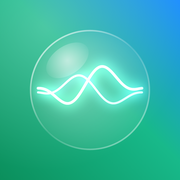
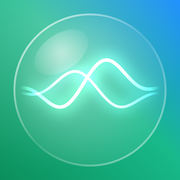
Полоса записи без точки; волны кнопок с плавными концами; иконка: шар крупнее, концы волн растворяются
Claude-Session: https://claude.ai/code/session_01WMZJrX2arWwd9szUey9CzY

Changed region(s): [[0.0556, 0.0556, 0.9444, 0.9444], [0.75, 0.1667, 0.8333, 0.25], [0.1667, 0.75, 0.25, 0.8333]]

diff --git a/src/web/app.js b/src/web/app.js
@@ -3312,11 +3312,13 @@ function silkLines(c, T, d, active) {
       const y = H / 2 + amp * k * env * Math.sin(u * Math.PI * 2 * 1.15 + T * sp * (j ? 1.25 : 1) + off)
       px === pad ? x.moveTo(px, y) : x.lineTo(px, y)
     }
-    x.strokeStyle = col; x.lineWidth = 1.8 * d; x.lineCap = "round"; x.lineJoin = "round"; x.stroke()
+    const g = x.createLinearGradient(pad, 0, W - pad, 0), c0 = col.replace(/[\d.]+\)$/, "0)")
+    g.addColorStop(0, c0); g.addColorStop(.25, col); g.addColorStop(.75, col); g.addColorStop(1, c0)   // концы растворяются
+    x.strokeStyle = g; x.lineWidth = 1.8 * d; x.lineCap = "round"; x.lineJoin = "round"; x.stroke()
   })
 }
 // Полоса записи: две волны плывут медленно, как на кнопке; пока говорите — чуть шире размах, но не быстрее.
-// Яркая точка стоит в центре и только мягко дышит. Всё свечение помещается внутри полосы
+// Без точки: только волны, концы растворяются. Всё свечение помещается внутри полосы
 function silkComet(c, T, d) {
   const x = c.getContext("2d"), W = c.width, H = c.height, a = SILK.lv
   x.clearRect(0, 0, W, H)
@@ -3331,11 +3333,6 @@ function silkComet(c, T, d) {
     x.strokeStyle = g; x.lineWidth = (j ? 1.6 : 2) * d; x.lineCap = "round"; x.lineJoin = "round"
     x.shadowColor = "#bff"; x.shadowBlur = glow; x.stroke(); x.shadowBlur = 0
   })
-  const hy = H / 2, R = (3.2 + a * 1.2) * (1 + .08 * Math.sin(T * 1.6)) * d, rr = Math.min(R * 2.4, H / 2 - d)
-  const gl = x.createRadialGradient(mid, hy, 0, mid, hy, rr)
-  gl.addColorStop(0, "#fff"); gl.addColorStop(.3, "rgba(200,255,240,.9)"); gl.addColorStop(.65, "rgba(90,220,255,.3)"); gl.addColorStop(1, "rgba(90,220,255,0)")
-  x.fillStyle = gl; x.beginPath(); x.arc(mid, hy, rr, 0, 7); x.fill()
-  x.fillStyle = "#fff"; x.beginPath(); x.arc(mid, hy, R * .5, 0, 7); x.fill()
 }
 let silkHide = null
 function silkShow(text) {

diff --git a/src/web/tools/icon_orb.html b/src/web/tools/icon_orb.html
@@ -51,5 +51,13 @@ Object.assign(V,{
    orbGlass(cx,cy,R) }
 })
 
+
+function waveF(cx,cy,len,amp,rgb,a,ph,lw,glow,k=2.3){ const g=x.createLinearGradient(cx-len/2,0,cx+len/2,0); g.addColorStop(0,`rgba(${rgb},0)`); g.addColorStop(.28,`rgba(${rgb},${a})`); g.addColorStop(.72,`rgba(${rgb},${a})`); g.addColorStop(1,`rgba(${rgb},0)`)
+ x.beginPath(); for(let i=0;i<=200;i++){const u=i/200,env=Math.pow(Math.sin(Math.PI*u),1.5),px=cx-len/2+u*len,py=cy+amp*env*Math.sin(u*Math.PI*k+ph); i?x.lineTo(px,py):x.moveTo(px,py)}
+ x.lineCap="round";x.lineJoin="round";x.strokeStyle=g;x.lineWidth=lw;x.shadowColor=`rgba(${rgb},1)`;x.shadowBlur=glow;x.stroke();x.shadowBlur=0 }
+V.a2=function(){ bg(); const cx=W/2,cy=W/2,R=W*.42; orbShell(cx,cy,R)
+ inside(cx,cy,R,()=>{ waveF(cx,cy+R*.04,R*1.85,R*.32,"140,205,255",.95,2.1,R*.035,R*.18); waveF(cx,cy-R*.03,R*1.85,R*.42,"150,255,220",1,0,R*.045,R*.22) })
+ orbGlass(cx,cy,R) }
+
 window.draw=k=>{x.clearRect(0,0,W,W);V[k]()}
 </script>

diff --git a/src/web/index.html b/src/web/index.html
@@ -11,8 +11,8 @@
 <meta name="referrer" content="no-referrer">
 <title>IZIDAY</title>
 <link rel="manifest" href="manifest.webmanifest">
-<link rel="apple-touch-icon" href="icon-180.png?v=3">
-<link rel="icon" href="icon-192.png?v=3">
+<link rel="apple-touch-icon" href="icon-180.png?v=4">
+<link rel="icon" href="icon-192.png?v=4">
 <link rel="stylesheet" href="style.css">
 </head>
 <body>

diff --git a/src/web/tools/icons.py b/src/web/tools/icons.py
@@ -1,6 +1,6 @@
 #!/usr/bin/env python3
-"""Значки веб-приложения: шар Изи на зелёном (вариант А, 2026-11-05): icon-180/192/512.png.
-Исходник 1024px — tools/icon-orb-1024.png, нарисован tools/icon_orb.html (draw("a") в Chromium).
+"""Значки веб-приложения: шар Изи на зелёном (вариант А, крупный шар, волны с плавными концами, 2026-11-05): icon-180/192/512.png.
+Исходник 1024px — tools/icon-orb-1024.png, нарисован tools/icon_orb.html (draw("a2") в Chromium).
 Квадрат без скруглений — iPhone скругляет сам."""
 import pathlib
 from PIL import Image
